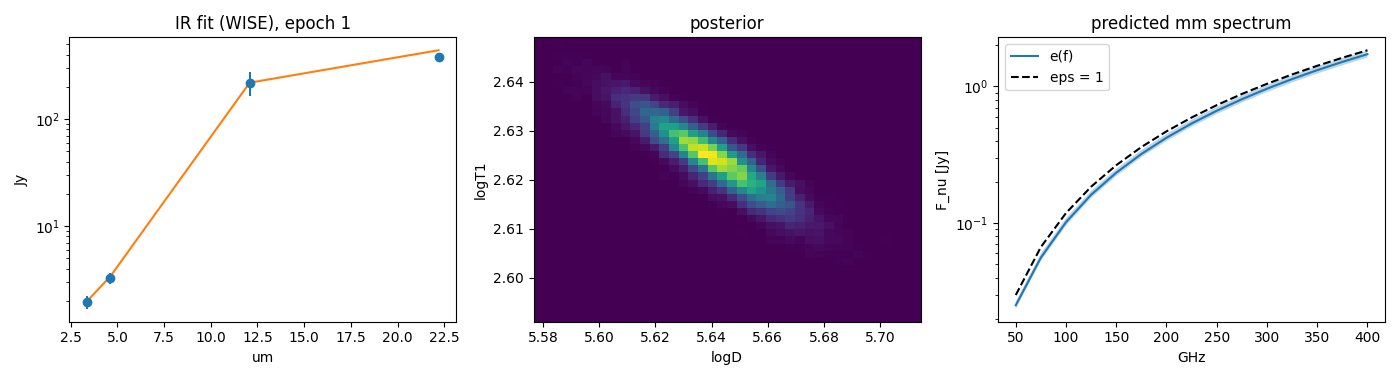
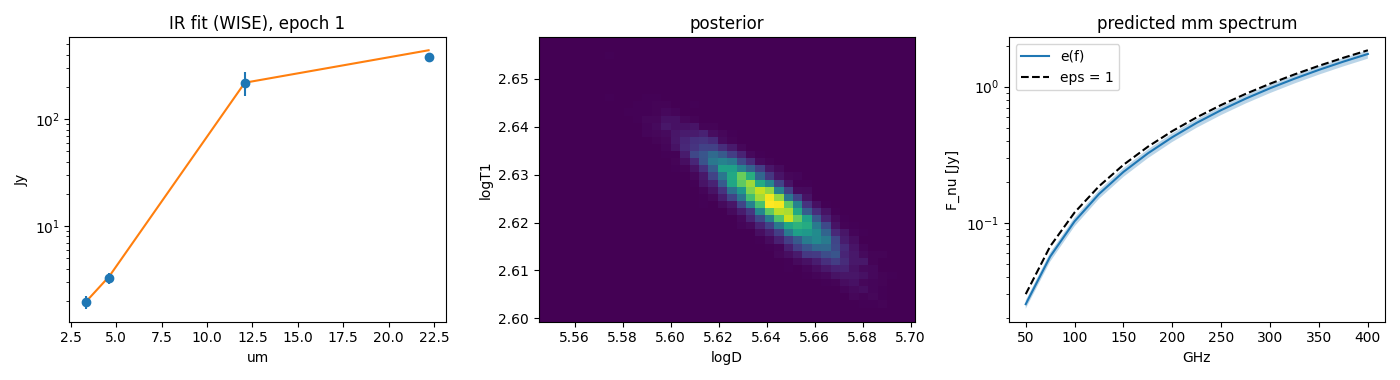
ir_to_mm: optional ACT points on the SED figure; remake Vesta SED with ACT

diff --git a/reports/vesta_real/ir_to_mm_WISE.html b/reports/vesta_real/ir_to_mm_WISE.html
@@ -1,3 +1,3 @@
 <h2>IR to mm: WISE</h2><p>emissivity: L5_l5c.npz; acceptance 0.65; best chi2 = 16.0 for 20 points.</p><img src="ir_to_mm_WISE.png"><img src="ir_to_mm_WISE_sed.png"><pre>        logD   logT1     eps  logprob
-mean  5.6406  2.6244  0.6727  -9.5186
-std   0.0162  0.0064  0.0318   1.2107</pre>
+mean  5.6410  2.6244  0.6725  -9.5336
+std   0.0164  0.0065  0.0324   1.2259</pre>

diff --git a/scripts/ir_to_mm.py b/scripts/ir_to_mm.py
@@ -71,6 +71,57 @@ def syntheticData(
     return df
 
 
+def loadActPoints(
+    cache: Path, asteroid: str, geometry: tuple[float, float, float]
+) -> list[dict]:
+    """
+    Stacked ACT flux per array and band, scaled to a given geometry with the paper's Eq. 1.
+
+    Each ASTRONAUT light-curve point gives F_0 = flux * weight (flux at 1 AU / 1 AU / alpha = 0); the
+    inverse-variance mean of F_0 is scaled by W = d_earth^-2 d_sun^-1/2 10^(-0.004 alpha[deg]). The paper's
+    systematic gain uncertainty (1.4% at f090/f150, 1.8% at f220) is added in quadrature.
+
+    Parameters
+    ----------
+    cache : `~pathlib.Path`
+        Directory holding (or receiving) the ASTRONAUT FITS files.
+    asteroid : str
+        Name in the ASTRONAUT database.
+    geometry : tuple of float
+        r [AU], delta [AU], alpha [rad] to scale to.
+
+    Returns
+    -------
+    list of dict
+        Entries with array, GHz (nominal band centre), F_mJy and err_mJy.
+    """
+    from act_vs_neatm import ARRAYS, BAND_GHZ, FREQS, fetchAct, weightedMean
+
+    r, delta, alpha = geometry
+    W = delta**-2 * r**-0.5 * 10 ** (-0.004 * np.degrees(alpha))
+    sysErr = {"090": 0.014, "150": 0.014, "220": 0.018}
+    cache.mkdir(parents=True, exist_ok=True)
+    out = []
+    for arr in ARRAYS:
+        for f in FREQS:
+            df = fetchAct(asteroid, arr, f, cache)
+            if df is None:
+                continue
+            F0, err = weightedMean(
+                df["flux"].values * df["weight"].values,
+                df["err"].values * df["weight"].values,
+            )
+            out.append(
+                {
+                    "array": arr,
+                    "GHz": BAND_GHZ[f],
+                    "F_mJy": F0 * W,
+                    "err_mJy": float(np.hypot(err, sysErr[f] * F0)) * W,
+                }
+            )
+    return out
+
+
 def main() -> None:
     """Parse the CLI, run the fit, predict the mm spectrum and write figures plus an HTML report."""
     ap = argparse.ArgumentParser(description=__doc__)
@@ -137,6 +188,15 @@ def main() -> None:
     ap.add_argument("--nsteps", type=int, default=3000)
     ap.add_argument("--n-draws", type=int, default=200)
     ap.add_argument("--out", type=Path, default=Path("reports"))
+    ap.add_argument(
+        "--act-cache",
+        type=Path,
+        default=None,
+        help="directory of ASTRONAUT FITS files (downloaded there if missing): overlays the stacked ACT points on the SED",
+    )
+    ap.add_argument(
+        "--act-asteroid", default="Vesta", help="name in the ASTRONAUT database"
+    )
     ap.add_argument("--debug", action="store_true", help="short chain, 20 draws")
     a = ap.parse_args()
     if a.debug:
@@ -195,6 +255,28 @@ def main() -> None:
         nDraws=a.n_draws,
     )
 
+    act = (
+        loadActPoints(a.act_cache, a.act_asteroid, (r, delta, alpha))
+        if a.act_cache
+        else []
+    )
+    if act:
+        fAct = np.array(sorted({p["GHz"] for p in act}))
+        constAct = predictMm(
+            mmModel,
+            samples,
+            EmissivityTable(fe, np.ones_like(fe)),
+            fAct,
+            r,
+            delta,
+            alpha,
+            nDraws=a.n_draws,
+        )["med"]
+        for (
+            pnt
+        ) in act:  # model at eps = 1 and the implied flat emissivity at each ACT point
+            pnt["model"] = float(constAct[list(fAct).index(pnt["GHz"])])
+
     fig, ax = plt.subplots(1, 3, figsize=(14, 3.8))
     lam = obs.filterEffectiveLambdas
     logD, logT1, eps = samples[["logD", "logT1", "eps"]].median()
@@ -248,12 +330,42 @@ def main() -> None:
         ax_.plot(f, g(pred["med"]), label="NEATM with e(f)")
         ax_.plot(f, g(const["med"]), "k--", label="NEATM with eps = 1")
         ax_.set(xscale="log", yscale="log", ylabel=label)
+    markers = {"pa4": "s", "pa5": "o", "pa6": "^"}
+    for pnt in act:
+        nu, lm = pnt["GHz"] * 1e9, c / (pnt["GHz"] * 1e9)
+        y, ye = pnt["F_mJy"] * 1e-29, pnt["err_mJy"] * 1e-29  # W m^-2 Hz^-1
+        for ax_, scale in [(top, nu), (mid, c * lm**2)]:
+            ax_.errorbar(
+                pnt["GHz"],
+                y * scale,
+                ye * scale,
+                fmt=markers[pnt["array"]],
+                c="r",
+                ms=5,
+            )
+        bot.errorbar(
+            pnt["GHz"],
+            pnt["F_mJy"] / (1e3 * pnt["model"]),
+            pnt["err_mJy"] / (1e3 * pnt["model"]),
+            fmt=markers[pnt["array"]],
+            c="r",
+            ms=5,
+            label=f"ACT {pnt['array']}"
+            if pnt["array"] not in [q["array"] for q in act[: act.index(pnt)]]
+            else None,
+        )
     top.legend()
     ratio = pred["F_nu"] / const["F_nu"]
     bot.fill_between(f, *np.percentile(ratio, [16, 84], axis=0), alpha=0.3)
     bot.plot(f, np.median(ratio, axis=0))
     bot.axhline(1, c="k", ls="--")
-    bot.set(xlabel="GHz", ylabel="e(f) / (eps = 1)")
+    bot.set(xlabel="GHz", ylabel="ratio to eps = 1")
+    for ax_ in (top, mid, bot):
+        ax_.relim()
+        ax_.autoscale_view()
+    bot.set_xlim(f[0] * 0.85, f[-1] * 1.2)
+    if act:
+        bot.legend(fontsize=7, ncol=3)
     sed.tight_layout()
     sed.savefig(a.out / f"ir_to_mm_{a.obs}_sed.png", dpi=100)
     html = (
